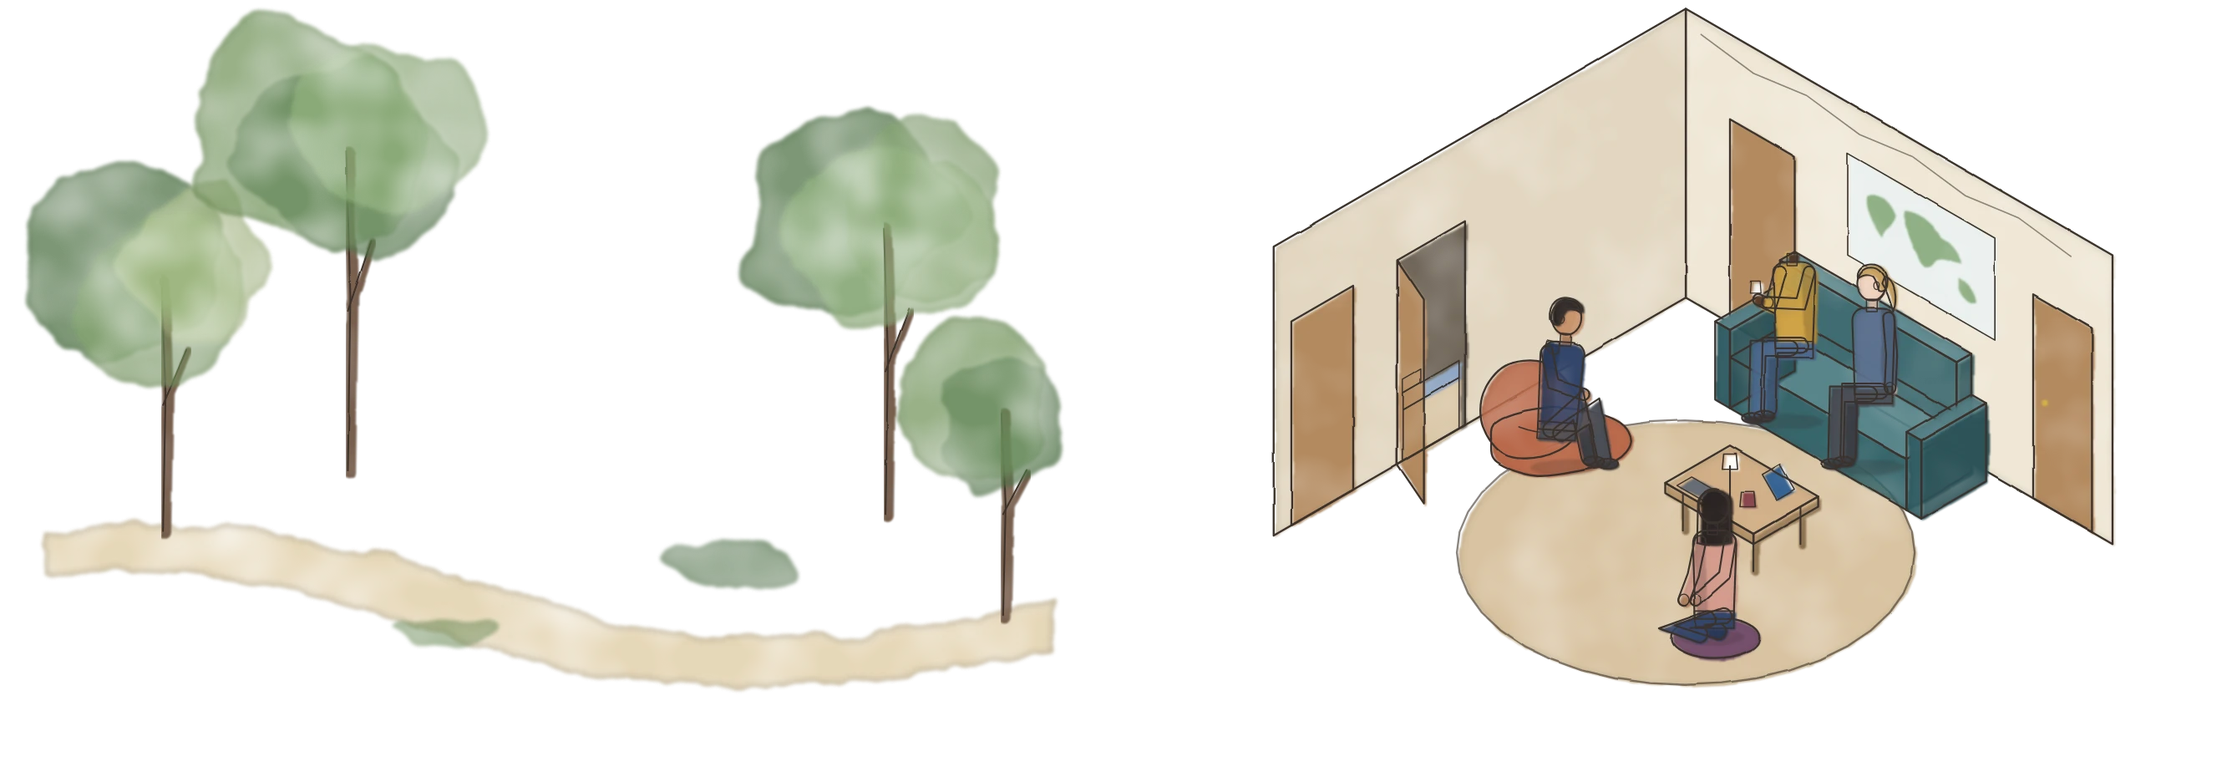
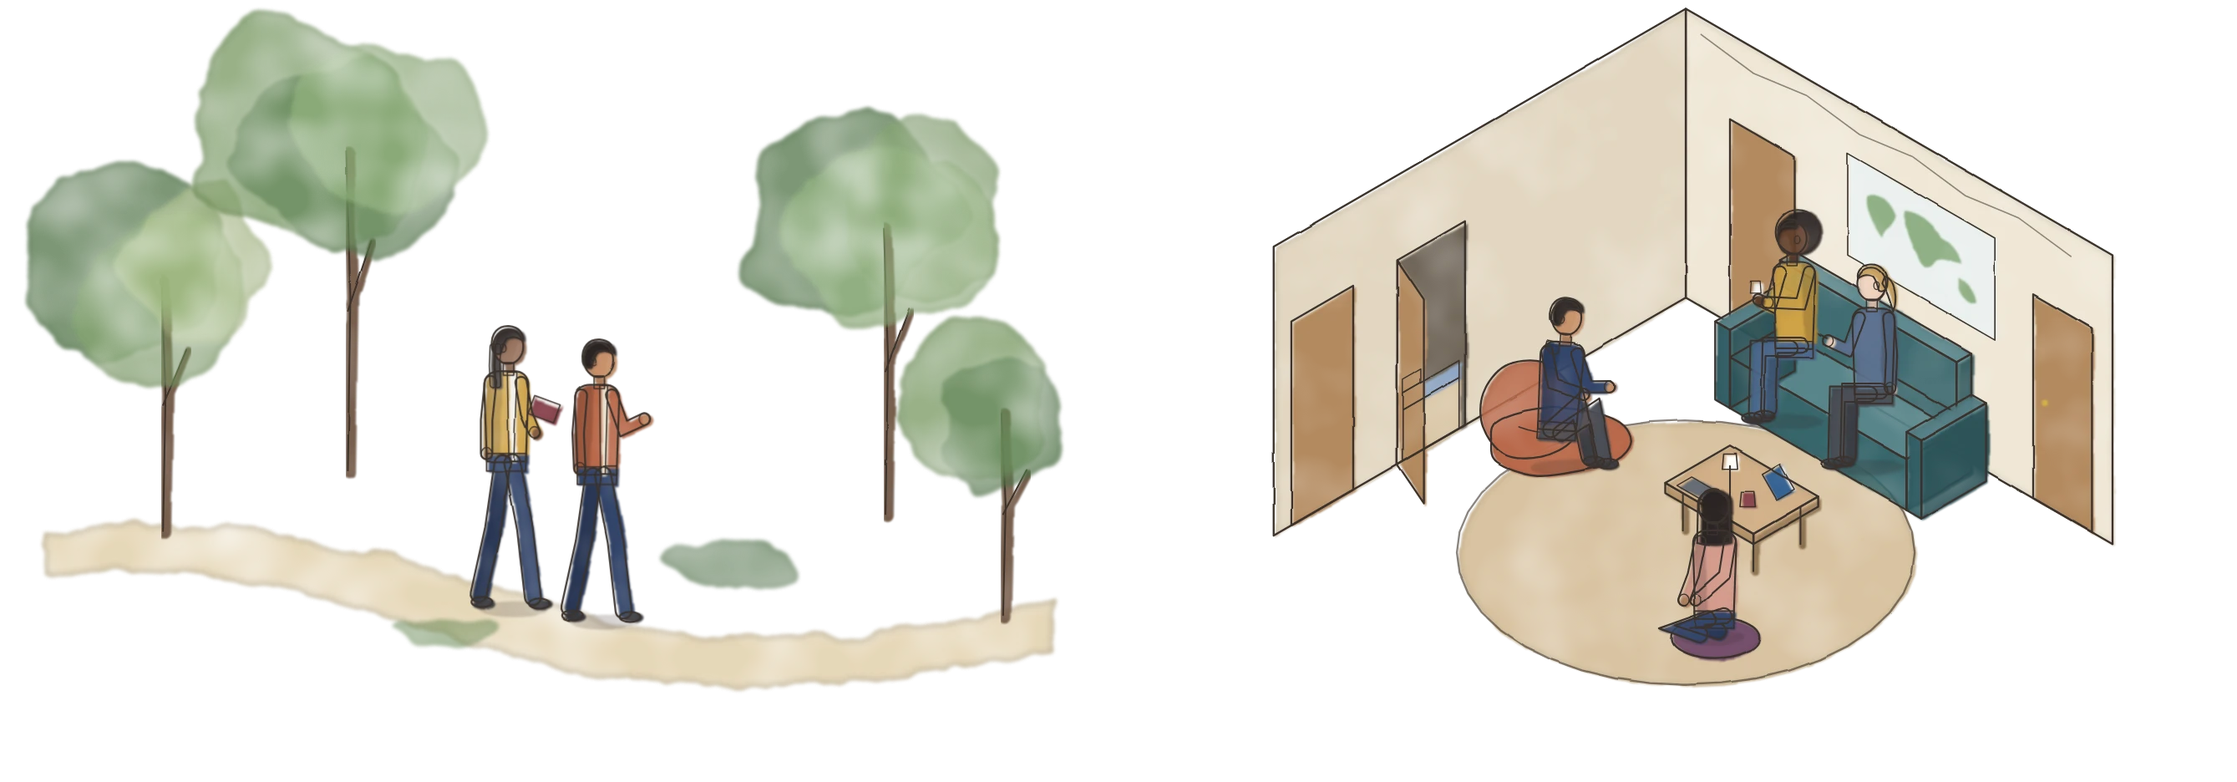
Student experience: paint the people still
Heads and arms laid live over the baked bodies kept drifting off them on
Apple devices, so the people are now part of the baked image. Only the
scenery still moves.

Claude-Session: https://claude.ai/code/session_01SMQjHjWtFbAc3m3c4G3GsF

diff --git a/studentexperience/index.html b/studentexperience/index.html
@@ -410,15 +410,12 @@ body { margin: 0; background: var(--paper); color: var(--ink); font-family: var(
         if (o.earrings) headInner += circ(-2.4, 5, 1.6, P.gold, { noInk: true });
       }
       let head = g(headInner, 'transform="translate(1 -164)"');
-      if (o.headClass) head = pivot(1, -154, o.headClass, head);
 
       const [nearPts, farPts] = o.armPts || ARMS[o.arms || 'down'];
       const armShape = (p, c) => limb(p, 7.2, c) + ell(p[p.length - 1][0], p[p.length - 1][1], 3.3, 3.8, view === 'back' ? skinDk : skin, { iw: 0.7 });
       const sleeve = o.sleeve || top;
       let farArm = armShape(farPts, shade(sleeve, -0.18));
       let nearArm = armShape(nearPts, sleeve);
-      if (o.armClass && view !== 'back') nearArm = pivot(nearPts[0][0], nearPts[0][1], o.armClass, nearArm);
-      if (o.farClass && view !== 'back') farArm = pivot(farPts[0][0], farPts[0][1], o.farClass, farArm);
       const upper = view === 'back' ? farArm + nearArm + neck + body + head : farArm + neck + body + head + nearArm;
       const leanT = o.lean ? ` rotate(${o.lean} 0 -92)` : '';
       const shadow = washOnly(`<ellipse cx="4" cy="-1" rx="22" ry="5" fill="rgba(60,50,40,0.13)"/>`);
@@ -469,7 +466,7 @@ body { margin: 0; background: var(--paper); color: var(--ink); font-family: var(
     s += `<g filter="url(#halo)"><ellipse cx="${f(lx)}" cy="${f(ly - 115)}" rx="60" ry="42" fill="#FFF0BC" opacity=".7"/></g>`;
     s += obj(() => ell(lx, ly, 12, 5, P.charcoal) + stick([[lx, ly], [lx, ly - 150]], 2.6, P.charcoal) + path(`M${f(lx - 17)},${f(ly - 140)} L${f(lx + 17)},${f(ly - 140)} L${f(lx + 10)},${f(ly - 168)} L${f(lx - 10)},${f(ly - 168)}Z`, P.cream) + dust(lx - 30, ly - 110));
     s += obj(() => box(-20, 0, 0, 62, 66, 34, P.tealDk) + box(-28, 0, 0, 12, 66, 82, P.tealDk) + box(-20, -6, 0, 62, 10, 56, shade(P.tealDk, 0.05)));
-    s += at(10, 36, { ...ME, pose: 'sit', arms: 'book', headClass: 'a-nod', held: () => openBook(22, -118, 13, P.blue) + pivot(22, -113, 'a-page', poly([[22, -118], [33, -121.5], [33, -111], [22, -108]], P.paper, { iw: 0.7 })), s: 0.92 });
+    s += at(10, 36, { ...ME, pose: 'sit', arms: 'book', held: () => openBook(22, -118, 13, P.blue) + poly([[22, -118], [33, -121.5], [33, -111], [22, -108]], P.paper, { iw: 0.7 }), s: 0.92 });
     s += obj(() => box(-20, 62, 0, 62, 12, 56, shade(P.tealDk, 0.08)));
     s += obj(() => {
       let t = table(80, 40, 40, 40, 52, P.wood);
@@ -490,12 +487,12 @@ body { margin: 0; background: var(--paper); color: var(--ink); font-family: var(
     s += obj(() => { const [cx, cy] = iso(0, 0, 30); return table(-26, -26, 52, 52, 30, P.wood) + closedBook(cx - 18, cy - 8, P.blue, -10) + closedBook(cx + 2, cy - 10, P.burgundy, 8) + openBook(cx - 4, cy - 4, 9, P.mustard); });
     const R = 112;
     const seats = [
-      { a: -135, prof: true, p: { skin: SKIN[5], hair: 'afro', hairColor: HAIR.black, top: P.plum, outfit: 'blazer', shirt: P.cream, bottom: P.charcoal, glasses: true, earrings: true, arms: 'gesture', armClass: 'a-gesture' }, view: 'front', flip: false, face: '+x' },
-      { a: -90, p: { skin: SKIN[0], hair: 'bob', hairColor: HAIR.blond, top: P.mustard, bottom: P.navy, arms: 'book', headClass: 'a-nod', held: () => openBook(22, -118, 11, P.blue) }, view: 'front', flip: true, face: '+y' },
+      { a: -135, prof: true, p: { skin: SKIN[5], hair: 'afro', hairColor: HAIR.black, top: P.plum, outfit: 'blazer', shirt: P.cream, bottom: P.charcoal, glasses: true, earrings: true, arms: 'gesture' }, view: 'front', flip: false, face: '+x' },
+      { a: -90, p: { skin: SKIN[0], hair: 'bob', hairColor: HAIR.blond, top: P.mustard, bottom: P.navy, arms: 'book', held: () => openBook(22, -118, 11, P.blue) }, view: 'front', flip: true, face: '+y' },
       { a: -45, p: { skin: SKIN[3], hair: 'fade', hairColor: HAIR.black, top: P.slate, outfit: 'hoodie', bottom: P.charcoal, arms: 'chin' }, view: 'front', flip: true, face: '+y' },
-      { a: 180, p: { skin: SKIN[1], hair: 'hijab', hairColor: P.tealDk, top: P.cream, bottom: P.navy, arms: 'book', headClass: 'a-nod d2', held: () => openBook(22, -118, 12, P.burgundy) + pivot(22, -112.5, 'a-page', poly([[22, -118], [34, -121.6], [34, -110], [22, -107]], P.paper, { iw: 0.7 })) + g(pen([[24, -108], [31, -121]], 1.6, '#2E3036'), 'class="a-write"') }, view: 'front', flip: false, face: '+x' },
-      { a: 0, p: { skin: SKIN[4], hair: 'braids', hairColor: HAIR.black, top: P.olive, bottom: P.denim, arms: 'gesture', armClass: 'a-gesture d2' }, view: 'back', flip: true, face: '-x' },
-      { a: 135, p: { ...ME, arms: 'lap', headClass: 'a-nod d2' }, view: 'back', flip: false, face: '-y' },
+      { a: 180, p: { skin: SKIN[1], hair: 'hijab', hairColor: P.tealDk, top: P.cream, bottom: P.navy, arms: 'book', held: () => openBook(22, -118, 12, P.burgundy) + poly([[22, -118], [34, -121.6], [34, -110], [22, -107]], P.paper, { iw: 0.7 }) + pen([[24, -108], [31, -121]], 1.6, '#2E3036') }, view: 'front', flip: false, face: '+x' },
+      { a: 0, p: { skin: SKIN[4], hair: 'braids', hairColor: HAIR.black, top: P.olive, bottom: P.denim, arms: 'gesture' }, view: 'back', flip: true, face: '-x' },
+      { a: 135, p: { ...ME, arms: 'lap' }, view: 'back', flip: false, face: '-y' },
       { a: 90, p: { skin: SKIN[0], hair: 'curly', hairColor: HAIR.auburn, top: P.navy, bottom: P.charcoal, arms: 'pocket' }, view: 'back', flip: false, face: '-y' },
       { a: 45, p: { skin: SKIN[2], hair: 'long', hairColor: HAIR.brown, top: P.blush, bottom: P.denim, arms: 'down' }, view: 'back', flip: true, face: '-x' },
     ];
@@ -518,8 +515,8 @@ body { margin: 0; background: var(--paper); color: var(--ink); font-family: var(
     s += obj(() => face([[-30, -26, 74.5], [30, -26, 74.5], [30, -12, 74.5], [-30, -12, 74.5]], '#666B74', { iw: 0.8 }) + face([[42, -36, 74.5], [74, -36, 74.5], [74, -10, 74.5], [42, -10, 74.5]], P.paper, { iw: 0.8 })
       + face([[42, -36, 74.6], [44, -36, 74.6], [44, -10, 74.6], [42, -10, 74.6]], P.blue, { noInk: true }) + onTop(48, -32, 75, washOnly(paperLines)) + mug(70, -56, 74, P.cream));
     const ch = chair(0, 20, P.charcoal, '-y');
-    s += obj(() => ch.under) + at(0, 22, { ...ME, pose: 'sit', view: 'back', arms: 'type', armClass: 'a-type', farClass: 'a-type', flip: true, s: 0.94 }) + obj(() => ch.over);
-    s += at(96, -6, { skin: SKIN[1], hair: 'short', hairColor: HAIR.salt, glasses: true, top: P.shirt, outfit: 'cardigan', sleeve: P.slate, bottom: P.charcoal, lanyard: true, view: 'front', flip: true, lean: -14, armClass: 'a-gesture', armPts: [[[9.5, -142], [30, -150], [52, -160]], [[-9.5, -142], [-2, -121], [10, -100]]] });
+    s += obj(() => ch.under) + at(0, 22, { ...ME, pose: 'sit', view: 'back', arms: 'type', flip: true, s: 0.94 }) + obj(() => ch.over);
+    s += at(96, -6, { skin: SKIN[1], hair: 'short', hairColor: HAIR.salt, glasses: true, top: P.shirt, outfit: 'cardigan', sleeve: P.slate, bottom: P.charcoal, lanyard: true, view: 'front', flip: true, lean: -14, armPts: [[[9.5, -142], [30, -150], [52, -160]], [[-9.5, -142], [-2, -121], [10, -100]]] });
     const [nx, ny] = iso(58, -24, 75);
     s += `<path d="M${f(nx)},${f(ny - 4)} C${f(nx - 30)},${f(ny - 70)} ${f(nx - 160)},${f(ny - 120)} -190,-212" fill="none" stroke="#8B939C" stroke-width="1" stroke-dasharray="2 4"/>`;
     s += obj(() => path(blob(-212, -266, 112, 62, 0.04, 14, 4), P.paper, { iw: 1 }) + hand(-296, -282, 'H1: more data, fewer errors?') + hand(-296, -261, 'H2: it learns the rule,') + hand(-275, -243, 'not the examples') + hand(-296, -222, 'H3: ?', 15, P.blue));
@@ -562,11 +559,11 @@ body { margin: 0; background: var(--paper); color: var(--ink); font-family: var(
       return t + mug(40, -16, 68, P.tealDk);
     });
     // the researcher at the screen: grey hair, glasses, a lanyard
-    s += at(112, -74, { skin: SKIN[1], hair: 'short', hairColor: HAIR.salt, glasses: true, top: P.shirt, outfit: 'cardigan', sleeve: P.slate, bottom: P.charcoal, lanyard: true, view: 'front', flip: true, armClass: 'a-gesture', armPts: [[[9.5, -142], [28, -158], [46, -176]], [[-9.5, -142], [-12, -119], [-8, -100]]] });
+    s += at(112, -74, { skin: SKIN[1], hair: 'short', hairColor: HAIR.salt, glasses: true, top: P.shirt, outfit: 'cardigan', sleeve: P.slate, bottom: P.charcoal, lanyard: true, view: 'front', flip: true, armPts: [[[9.5, -142], [28, -158], [46, -176]], [[-9.5, -142], [-12, -119], [-8, -100]]] });
     // two students at their laptops, seen from behind
     [[-58, 62, { ...ME }], [22, 62, { skin: SKIN[3], hair: 'ponytail', hairColor: HAIR.brown, top: P.tealDk, bottom: P.charcoal }]].forEach(([gx, gy, p]) => {
       const ch = chair(gx, gy, P.charcoal, '-y');
-      s += obj(() => ch.under) + at(gx, gy, { ...p, pose: 'sit', view: 'back', arms: 'type', armClass: 'a-type', farClass: 'a-type', flip: false, s: 0.92 }) + obj(() => ch.over);
+      s += obj(() => ch.under) + at(gx, gy, { ...p, pose: 'sit', view: 'back', arms: 'type', flip: false, s: 0.92 }) + obj(() => ch.over);
     });
     return s;
   };
@@ -575,11 +572,11 @@ body { margin: 0; background: var(--paper); color: var(--ink); font-family: var(
     GY = -60;
     let s = obj(() => rug(-20, 0, 125, '#E9DCC4'));
     // students on the far side, facing us
-    [[-70, -76, { skin: SKIN[0], hair: 'bob', hairColor: HAIR.brown, top: P.slate, arms: 'write' }], [-10, -76, { skin: SKIN[4], hair: 'locs', hairColor: HAIR.black, top: P.mustard, arms: 'open', headClass: 'a-nod' }], [50, -76, { skin: SKIN[1], hair: 'hijab', hairColor: P.plum, top: P.cream, arms: 'lap' }]]
+    [[-70, -76, { skin: SKIN[0], hair: 'bob', hairColor: HAIR.brown, top: P.slate, arms: 'write' }], [-10, -76, { skin: SKIN[4], hair: 'locs', hairColor: HAIR.black, top: P.mustard, arms: 'open' }], [50, -76, { skin: SKIN[1], hair: 'hijab', hairColor: P.plum, top: P.cream, arms: 'lap' }]]
       .forEach(([gx, gy, p]) => { const ch = chair(gx, gy, P.woodDk, '+y'); s += obj(() => ch.under) + at(gx, gy, { ...p, pose: 'sit', view: 'front', flip: true, s: 0.9 }); });
     // the state senator at the head of the table
     const chO = chair(-168, -12, P.woodDk, '+x');
-    s += obj(() => chO.under) + at(-168, -12, { skin: SKIN[4], hair: 'bun', hairColor: HAIR.grey, top: P.burgundy, outfit: 'blazer', shirt: P.shirt, bottom: P.burgundy, skirt: true, pin: true, pearls: true, pose: 'sit', view: 'front', arms: 'gesture', armClass: 'a-gesture', s: 0.96 });
+    s += obj(() => chO.under) + at(-168, -12, { skin: SKIN[4], hair: 'bun', hairColor: HAIR.grey, top: P.burgundy, outfit: 'blazer', shirt: P.shirt, bottom: P.burgundy, skirt: true, pin: true, pearls: true, pose: 'sit', view: 'front', arms: 'gesture', s: 0.96 });
     // the table: papers, water glasses and a name card
     s += obj(() => {
       let t = table(-110, -50, 190, 76, 66, P.wood);
@@ -588,9 +585,9 @@ body { margin: 0; background: var(--paper); color: var(--ink); font-family: var(
       t += face([[-100, -8, 66], [-100, 16, 66], [-100, 16, 78], [-100, -8, 78]], P.paper, { iw: 0.8 }) + onRightFace(-100, 14, 69, inkOnly(`<text x="1.5" y="0" font-family="Raleway, sans-serif" font-weight="700" font-size="5" letter-spacing=".5" fill="${INK}">SENATOR</text>`));
       return t;
     });
-    s += obj(() => g(pen([iso(-50, 10, 67), iso(-44, 4, 80)], 1.6), 'class="a-write"'));
+    s += obj(() => pen([iso(-50, 10, 67), iso(-44, 4, 80)], 1.6));
     // students on the near side, from behind
-    [[-40, 52, { ...ME, arms: 'open', armClass: 'a-gesture d2' }], [24, 52, { skin: SKIN[3], hair: 'fade', hairColor: HAIR.black, top: P.olive, arms: 'lap', headClass: 'a-nod d2' }]]
+    [[-40, 52, { ...ME, arms: 'open' }], [24, 52, { skin: SKIN[3], hair: 'fade', hairColor: HAIR.black, top: P.olive, arms: 'lap' }]]
       .forEach(([gx, gy, p]) => { const ch = chair(gx, gy, P.woodDk, '-y'); s += obj(() => ch.under) + at(gx, gy, { ...p, pose: 'sit', view: 'back', flip: false, s: 0.92 }) + obj(() => ch.over); });
     return s;
   };
@@ -602,10 +599,10 @@ body { margin: 0; background: var(--paper); color: var(--ink); font-family: var(
       + onLeftFace(98, -100, 166, hand(0, 18, 'What policies do we need?', 15, '#3F6F3E', 92)
         + inkOnly(`<path d="M0,40 q6,-4 12,0 t12,0 t12,-1 t12,1 t12,0 t12,0 t10,0" fill="none" stroke="${INK}" stroke-width="1.3" class="a-draw"/>`)));
     s += obj(() => table(-100, -40, 44, 44, 92, P.wood) + mug(-84, -26, 92, P.paper) + mug(-70, -12, 92, P.terracotta) + face([[-96, -36, 92.5], [-74, -36, 92.5], [-74, -20, 92.5], [-96, -20, 92.5]], P.paper, { iw: 0.7 }));
-    s += at(-73, -87, { skin: SKIN[5], hair: 'fade', hairColor: HAIR.black, top: P.mustard, outfit: 'hoodie', bottom: P.charcoal, view: 'front', flip: true, arms: 'gesture', armClass: 'a-gesture', s: 0.92 });
-    s += at(-10, -60, { skin: SKIN[1], hair: 'long', hairColor: HAIR.brown, top: P.plum, bottom: P.navy, view: 'front', flip: true, arms: 'pocket', headClass: 'a-nod', s: 0.92 });
+    s += at(-73, -87, { skin: SKIN[5], hair: 'fade', hairColor: HAIR.black, top: P.mustard, outfit: 'hoodie', bottom: P.charcoal, view: 'front', flip: true, arms: 'gesture', s: 0.92 });
+    s += at(-10, -60, { skin: SKIN[1], hair: 'long', hairColor: HAIR.brown, top: P.plum, bottom: P.navy, view: 'front', flip: true, arms: 'pocket', s: 0.92 });
     s += at(-110, 40, { skin: SKIN[3], hair: 'hijab', hairColor: P.blue, top: P.tealDk, bottom: P.charcoal, view: 'back', flip: false, arms: 'pocket', s: 0.94 });
-    s += at(70, -40, { ...ME, view: 'front', flip: false, armClass: 'a-type', armPts: [[[9.5, -142], [28, -150], [44, -160]], [[-9.5, -142], [-12, -119], [-7, -103]]], s: 0.95 });
+    s += at(70, -40, { ...ME, view: 'front', flip: false, armPts: [[[9.5, -142], [28, -150], [44, -160]], [[-9.5, -142], [-12, -119], [-7, -103]]], s: 0.95 });
     return s;
   };
 
@@ -614,8 +611,8 @@ body { margin: 0; background: var(--paper); color: var(--ink); font-family: var(
     let s = `<g filter="url(#leafy)" opacity=".9"><path d="M-300,-60 C-160,-80 -60,-30 20,-10 C110,12 200,4 300,-20 L300,10 C200,34 100,40 10,22 C-70,4 -170,-46 -300,-34Z" fill="${P.path}"/></g>`;
     s += tree(-230, -60, 150, 60, [P.leafDk, P.leaf, P.leafLt], 3) + tree(-120, -96, 190, 70, [P.leaf, P.leafDk, '#9DBB86'], 7) + tree(200, -70, 170, 66, [P.leafDk, '#9DBB86', P.leaf], 11);
     s += `<g filter="url(#leafy)"><path d="${blob(110, -40, 40, 14, 0.2, 9, 2)}" fill="${P.leafDk}" opacity=".5"/><path d="${blob(-60, 0, 30, 10, 0.2, 9, 5)}" fill="${P.leaf}" opacity=".45"/></g>`;
-    s += g(person({ skin: SKIN[4], hair: 'braids', hairColor: HAIR.black, top: P.mustard, outfit: 'cardigan', bottom: P.navy, x: -26, y: -14, pose: 'walk', arms: 'carry', held: () => closedBook(14, -122, P.burgundy, -70), s: 0.95 }), 'class="a-bob"');
-    s += g(person({ ...ME, x: 28, y: -6, pose: 'walk', arms: 'gesture', armClass: 'a-gesture', s: 0.95 }), 'class="a-bob d2"');
+    s += g(person({ skin: SKIN[4], hair: 'braids', hairColor: HAIR.black, top: P.mustard, outfit: 'cardigan', bottom: P.navy, x: -26, y: -14, pose: 'walk', arms: 'carry', held: () => closedBook(14, -122, P.burgundy, -70), s: 0.95 }));
+    s += g(person({ ...ME, x: 28, y: -6, pose: 'walk', arms: 'gesture', s: 0.95 }));
     s += tree(270, -10, 120, 46, [P.leaf, P.leafDk], 13);
     ['#C9963F', P.terracotta, P.leaf].forEach((c, i) => { s += pivot(120 - i * 150, -230 + i * 20, `a-leaf d${i + 1}`, `<ellipse cx="${120 - i * 150}" cy="${-230 + i * 20}" rx="5" ry="3" fill="${c}"/>`); });
     s += [[-60, -290], [-36, -302]].map(([x, y], i) => `<g class="a-bird${i ? ' d2' : ''}">${pivot(x + 10, y, 'a-wing', `<path d="M${x},${y} q5,-5 10,0 q5,-5 10,0" fill="none" stroke="${INK}" stroke-width="1.2" stroke-linecap="round"/>`)}</g>`).join('');
@@ -645,8 +642,8 @@ body { margin: 0; background: var(--paper); color: var(--ink); font-family: var(
     s += obj(() => rug(10, 10, 110, '#D8C3A0'));
     // couch against the back wall, two students on it
     s += obj(() => box(-60, -134, 0, 120, 44, 30, P.tealDk) + box(-60, -134, 30, 120, 10, 40, shade(P.tealDk, 0.05)) + box(-70, -134, 0, 10, 44, 46, shade(P.tealDk, -0.05)));
-    s += at(-30, -104, { skin: SKIN[5], hair: 'afro', hairColor: HAIR.black, top: P.mustard, bottom: P.denim, pose: 'sit', view: 'front', flip: true, arms: 'mug', held: () => path('M22,-128 l7,0 l-0.6,-8 l-5.8,0Z', P.paper, { iw: 0.7 }), s: 0.9, headClass: 'a-nod' });
-    s += at(24, -104, { skin: SKIN[0], hair: 'ponytail', hairColor: HAIR.blond, top: P.slate, bottom: P.charcoal, pose: 'sit', view: 'front', flip: true, arms: 'gesture', armClass: 'a-gesture', s: 0.9 });
+    s += at(-30, -104, { skin: SKIN[5], hair: 'afro', hairColor: HAIR.black, top: P.mustard, bottom: P.denim, pose: 'sit', view: 'front', flip: true, arms: 'mug', held: () => path('M22,-128 l7,0 l-0.6,-8 l-5.8,0Z', P.paper, { iw: 0.7 }), s: 0.9 });
+    s += at(24, -104, { skin: SKIN[0], hair: 'ponytail', hairColor: HAIR.blond, top: P.slate, bottom: P.charcoal, pose: 'sit', view: 'front', flip: true, arms: 'gesture', s: 0.9 });
     s += obj(() => box(60, -134, 0, 10, 44, 46, shade(P.tealDk, -0.05)));
     // coffee table
     s += obj(() => table(-10, -40, 60, 44, 28, P.wood) + mug(4, -26, 28, P.paper) + mug(32, -10, 28, P.burgundy) + closedBook(...iso(18, -34, 28), P.blue, -30) + face([[-4, -8, 28.5], [18, -8, 28.5], [18, 2, 28.5], [-4, 2, 28.5]], '#666B74', { iw: 0.7 }));
@@ -654,7 +651,7 @@ body { margin: 0; background: var(--paper); color: var(--ink); font-family: var(
     const [bx, by] = iso(-86, 2, 0);
     s += obj(() => path(blob(bx - 14, by - 32, 30, 28, 0.12, 9, 31), shade(P.terracotta, 0.04)) + path(blob(bx + 2, by - 13, 42, 19, 0.1, 10, 32), P.terracotta)
       + path(`M${f(bx - 22)},${f(by - 22)} C${f(bx - 6)},${f(by - 16)} ${f(bx + 10)},${f(by - 18)} ${f(bx + 24)},${f(by - 24)}`, 'none', { iw: 0.8 }));
-    s += at(-84, 4, { ...ME, top: P.navy, outfit: 'hoodie', bottom: P.charcoal, pose: 'low', view: 'front', arms: 'open', armClass: 'a-gesture d2', lean: 4, s: 0.92 });
+    s += at(-84, 4, { ...ME, top: P.navy, outfit: 'hoodie', bottom: P.charcoal, pose: 'low', view: 'front', arms: 'open', lean: 4, s: 0.92 });
     // a student cross-legged on a floor cushion, back to us
     s += obj(() => ell(...iso(70, 50, 0), 26, 12, P.plum));
     s += at(70, 50, { skin: SKIN[2], hair: 'long', hairColor: HAIR.black, top: P.blush, bottom: P.navy, pose: 'floor', view: 'back', flip: true, arms: 'lap', s: 0.92 });
@@ -733,7 +730,7 @@ body { margin: 0; background: var(--paper); color: var(--ink); font-family: var(
      watercolor filters. Only the small moving parts stay live, in a thin SVG over each scene.
      Add ?live to the address to see everything drawn live (that is what the bake captures). */
   const LIVE = /[?&]live\b/.test(location.search);
-  const ART = '/studentexperience/art/', ART_V = '5';
+  const ART = '/studentexperience/art/', ART_V = '6';
   // Where each scene's art sits, recorded by the bake so the moving parts land exactly on the
   // painted image on every device (measuring live can differ slightly between browsers)
   const ART_FIT = {"0-0":"translate(-278.6 -63.4) scale(0.7173999999999999)","0-1":"translate(149.4 -53.5) scale(0.798)","1-0":"translate(-5.2 -45.1) scale(0.7841)","2-0":"translate(-249.1 -44) scale(1.0382)","2-1":"translate(176.1 -12.1) scale(1.0717)","3-0":"translate(-262 -49.1) scale(0.7736000000000001)","3-1":"translate(261.2 -85.6) scale(0.7825)"};
@@ -828,17 +825,15 @@ body { margin: 0; background: var(--paper); color: var(--ink); font-family: var(
 
 
   /* ---------- Scene loops ----------
+     Only the scenery moves (steam, leaves, birds, screens, the sticky note); the people are
+     painted still, since parts laid over a body drifted off it on Apple devices.
      Moving parts are turned by setting their SVG transform attribute, never a CSS transform.
      Each part sits in a group whose origin is its pivot (see pivot()), and SVG attribute math is
      the same in every browser; Safari places CSS transform origins on SVG parts differently.
      Frames are [time 0..1, x, y, rotate, scaleX, scaleY, opacity?]; delays shift the d2/d3 copies. */
   const MOTION = {
-    gesture: { dur: 2.8, ease: 1, delays: [-1.3], f: [[0, 0, 0, 0, 1, 1], [0.5, 0, 0, -8, 1, 1], [1, 0, 0, 0, 1, 1]] },
-    nod: { dur: 3.4, ease: 1, delays: [-1.7], f: [[0, 0, 0, 0, 1, 1], [0.7, 0, 0, 0, 1, 1], [0.78, 0, 0, 5, 1, 1], [0.86, 0, 0, -1, 1, 1], [0.92, 0, 0, 4, 1, 1], [1, 0, 0, 0, 1, 1]] },
-    type: { dur: 0.5, ease: 1, alt: 1, f: [[0, 0, 0, 0, 1, 1], [1, 0, -1.6, 0, 1, 1]] },
     steam: { dur: 3.2, ease: 1, delays: [-1.6], f: [[0, 0, 3, 0, 1, 1, 0], [0.4, 0, -3, 0, 1, 1, 0.6], [1, 0, -14, 0, 1, 1, 0]] },
     mote: { dur: 7, delays: [-2.4, -4.8], f: [[0, 0, 0, 0, 1, 1, 0], [0.2, 2, -8, 0, 1, 1, 0.8], [0.7, 7, -28, 0, 1, 1, 0.8], [1, 10, -40, 0, 1, 1, 0]] },
-    page: { dur: 5, ease: 1, f: [[0, 0, 0, 0, 1, 1, 1], [0.6, 0, 0, 0, 1, 1, 1], [0.7, 0, 0, 0, -1, 1, 0.9], [0.72, 0, 0, 0, 0, 1, 0], [0.74, 0, 0, 0, 1, 1, 0], [0.8, 0, 0, 0, 1, 1, 1], [1, 0, 0, 0, 1, 1, 1]] },
     grow: { dur: 3.4, ease: 1, delays: [-1.1, -2.2], f: [[0, 0, 0, 0, 1, 0.6], [0.5, 0, 0, 0, 1, 1], [1, 0, 0, 0, 1, 0.6]] },
     scroll: { dur: 4, f: [[0, 0, 0, 0, 1, 1], [1, 0, -14.8, 0, 1, 1]] },
     dot: { dur: 1.2, ease: 1, delays: [0.2, 0.4], f: [[0, 0, 0, 0, 1, 1, 0.4], [0.5, 0, -2, 0, 1, 1, 1], [1, 0, 0, 0, 1, 1, 0.4]] },
@@ -846,8 +841,6 @@ body { margin: 0; background: var(--paper); color: var(--ink); font-family: var(
     leaf: { dur: 7, delays: [-2.3, -4.6], f: [[0, 0, -30, 0, 1, 1, 0], [0.15, -6, -9, 30, 1, 1, 0.9], [0.8, -32, 82, 160, 1, 1, 0.9], [1, -40, 110, 200, 1, 1, 0]] },
     bird: { dur: 11, delays: [-0.6], f: [[0, -60, 10, 0, 1, 1, 0], [0.1, -28, 5, 0, 1, 1, 0.8], [0.85, 212, -32.5, 0, 1, 1, 0.8], [1, 260, -40, 0, 1, 1, 0]] },
     wing: { dur: 0.5, ease: 1, alt: 1, f: [[0, 0, 0, 0, 1, 1], [1, 0, 0, 0, 1, -0.6]] },
-    bob: { dur: 0.9, ease: 1, alt: 1, delays: [-0.45], f: [[0, 0, 0, 0, 1, 1], [1, 0, -1.5, 0, 1, 1]] },
-    write: { dur: 1.8, ease: 1, f: [[0, 0, 0, 0, 1, 1], [0.3, 3, -1, 0, 1, 1], [0.6, 6, 1, 0, 1, 1], [1, 0, 0, 0, 1, 1]] },
   };
   const parts = sceneEls.map(el => [...el.querySelectorAll('[class*="a-"]')].map(n => {
     const m = MOTION[[...n.classList].find(c => c.startsWith('a-')).slice(2)];

diff --git a/CLAUDE.md b/CLAUDE.md
@@ -93,8 +93,10 @@ Keep the captions in step with the program copy in the two-pager.
 The watercolor filters are far too slow to run live while scrolling, so the
 painted art (washes, scenes, the brushed timeline) ships as WebP images in
 `studentexperience/art/`, baked from the page's own drawing code by
-`tools/bake-student-experience.js`. Only the small moving parts (gestures,
-steam, leaves, scrolling code) stay live, drawn in the same SVG as the scene's
+`tools/bake-student-experience.js`. The people are painted still: heads and
+arms laid live over a baked body drifted off it on Apple devices, and Jon
+preferred still people to that. Only the scenery moves (steam, leaves, birds,
+scrolling code and charts, the sticky note, string lights), drawn in the same SVG as the scene's
 image and posed by a small script through SVG `transform` attributes (CSS
 transforms on SVG parts land in different places on Apple devices). After
 changing any drawing, re-run the bake (instructions at the top of the script).
